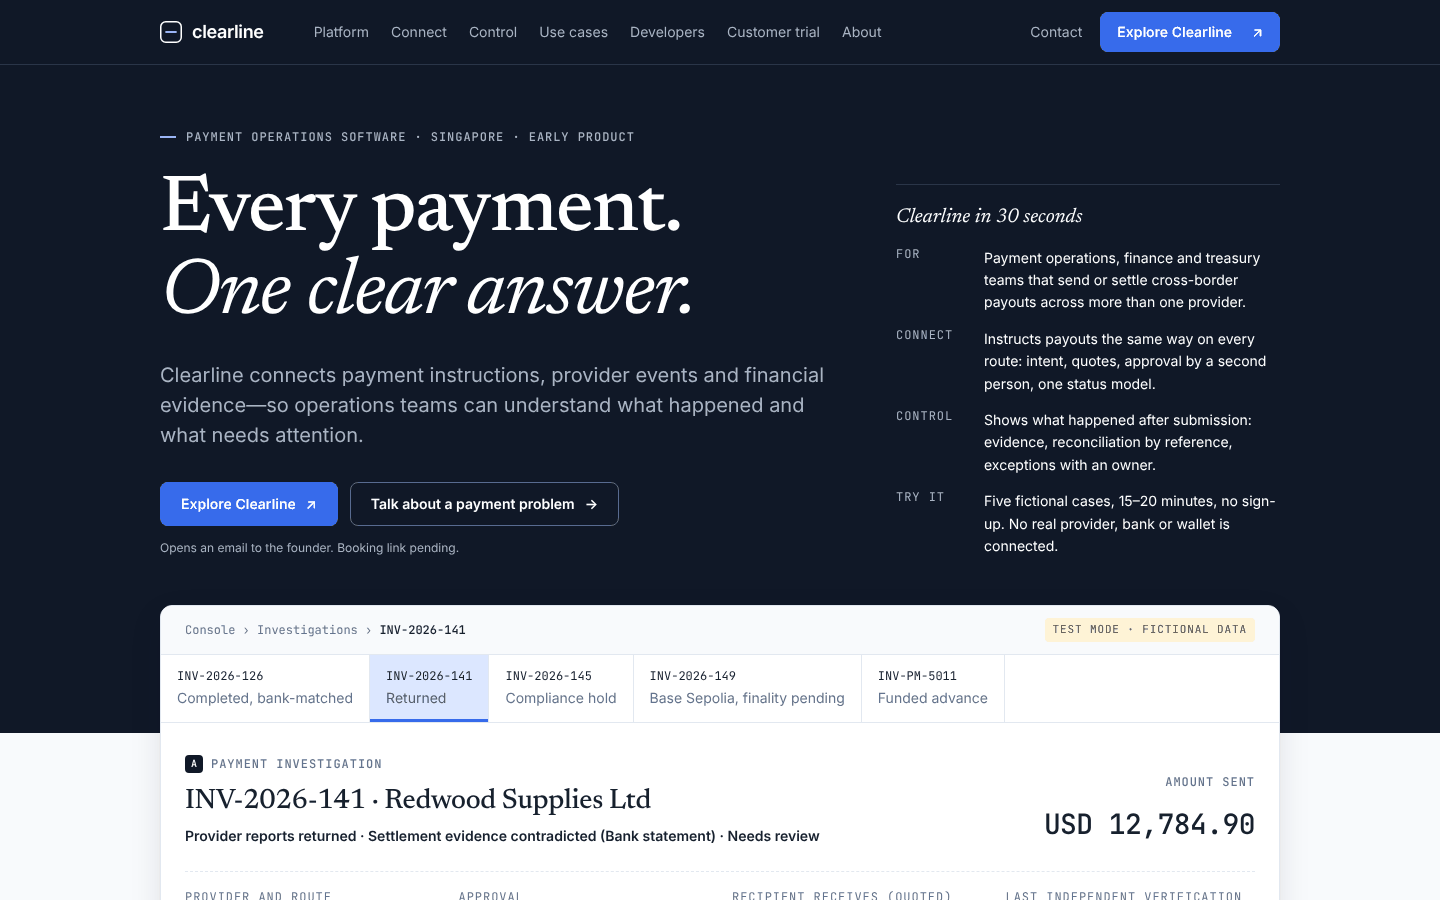
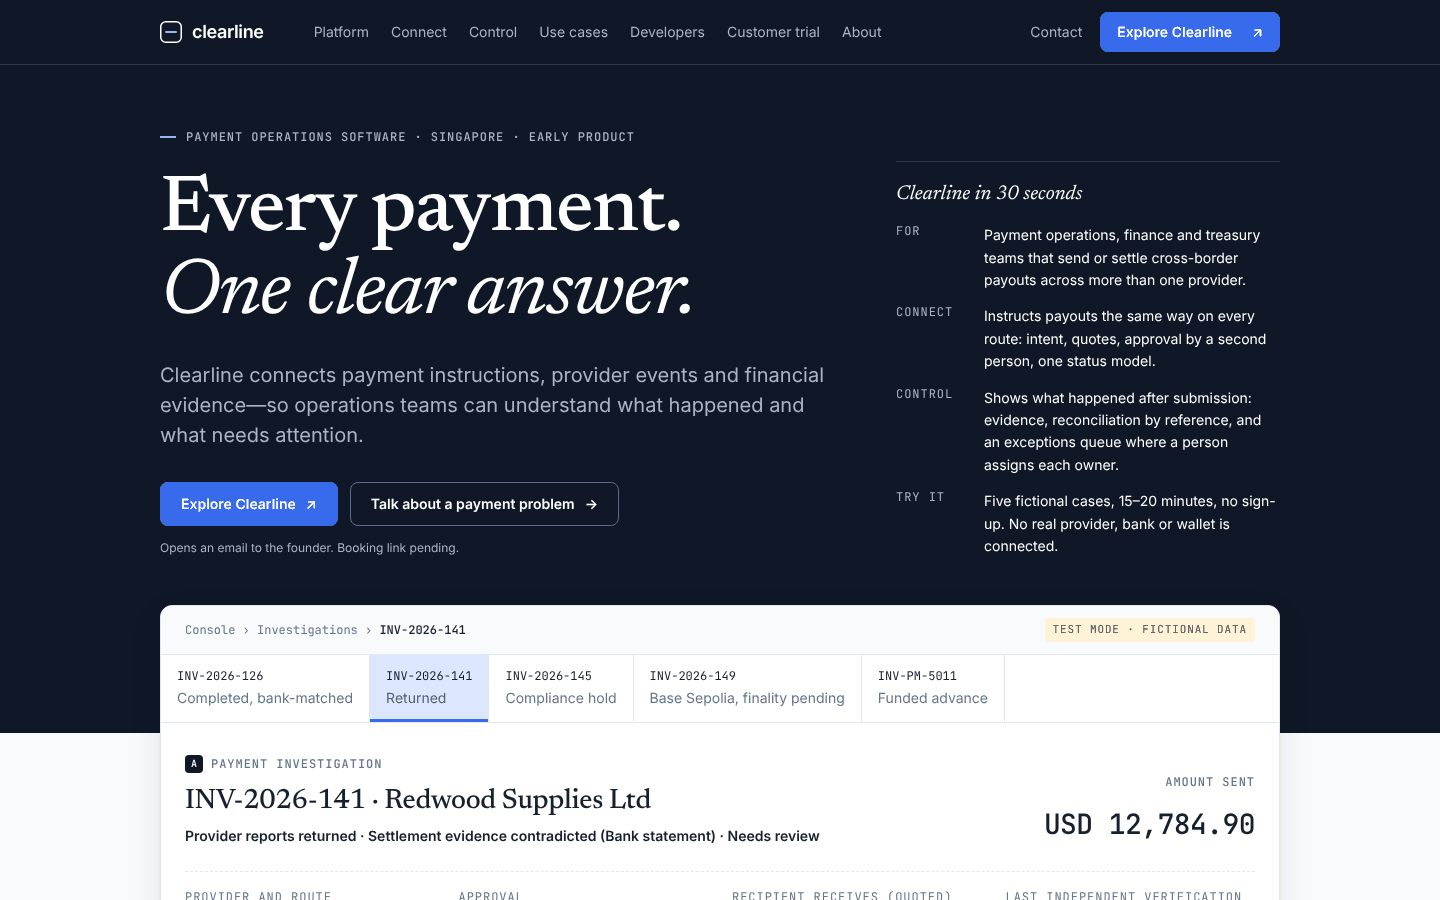
fix(marketing): exceptions are created unassigned; due dates set at creation (QA L3)
The site said unmatched lines and other disagreements become "an exception with an owner and a due date".
In the engine (exceptions.ts) an exception gets its due date at creation (an explicit date, or the creation
date + 1 day critical/high, 3 medium, 5 low) but no owner; a person assigns the owner, and resolving needs one
(OWNER_REQUIRED). Two of the four sample exceptions are unassigned.

Corrected on Home (story, 30-second panel, Connect/Control spec, flow), Control (intro and a precise note above
the exceptions table), Platform (rule 6), Developers (GET /exceptions, reconciliation exception row),
Use cases, the disclosure, the exceptions table label and DESIGN_SYSTEM.md. New test guards the claim (fails on
the previous copy). 45/45. Home first-screen screenshot refreshed.

Claude-Session: https://claude.ai/code/session_015s4Kk7vKgcSQ7csnYmEH5j

Changed region(s): [[0.625, 0.1867, 0.875, 0.5289], [0.625, 0.4356, 0.6562, 0.4667], [0.625, 0.3422, 0.6562, 0.3733]]

diff --git a/marketing/app/page.tsx b/marketing/app/page.tsx
@@ -21,7 +21,7 @@ const storyGaps = [
   ["The provider has the instruction.", "Not that any money has moved."],
   ["The provider says it is on its way.", "Not where it is, or when it will arrive."],
   ["The bank statement shows the payout left the account, allocated by its trusted reference.", "Not that the supplier was credited."],
-  ["The provider says it came back. Clearline makes reconciliation an exception at once, with an owner and a due date, and marks the earlier debit evidence as contradicted.", "Why it came back, and whether the money is really back."],
+  ["The provider says it came back. Clearline makes reconciliation an exception at once, with a due date, and marks the earlier debit evidence as contradicted.", "Why it came back, and whether the money is really back."],
   ["The return credit is on the statement, allocated by its trusted reference. The debit and the credit net to zero (RT_NET_ZERO).", "Nothing about the supplier: the beneficiary was not paid, so the exception stays open."],
 ];
 
@@ -45,7 +45,7 @@ export default function Home() {
             <dl>
               <div><dt>For</dt><dd>Payment operations, finance and treasury teams that send or settle cross-border payouts across more than one provider.</dd></div>
               <div><dt>Connect</dt><dd>Instructs payouts the same way on every route: intent, quotes, approval by a second person, one status model.</dd></div>
-              <div><dt>Control</dt><dd>Shows what happened after submission: evidence, reconciliation by reference, exceptions with an owner.</dd></div>
+              <div><dt>Control</dt><dd>Shows what happened after submission: evidence, reconciliation by reference, and an exceptions queue where a person assigns each owner.</dd></div>
               <div><dt>Try it</dt><dd>Five fictional cases, 15&ndash;20 minutes, no sign-up. No real provider, bank or wallet is connected.</dd></div>
             </dl>
           </div>
@@ -85,7 +85,7 @@ export default function Home() {
               <p className="label">Clearline&rsquo;s answer</p>
               <div className="status-line"><ExecStatus state={returned.execution} /><SettlementStatus state={returned.settlement} scope={returned.settlementScope} /><ReconStatus state={returned.reconciliation} /></div>
               <p style={{ marginTop: 16 }}><b>{returned.nextAction}</b></p>
-              <p className="caption" style={{ marginTop: 8 }}>Owner {returnedException.owner} · due <span className="num">{returnedException.dueDate}</span> · exception <span className="mono">{returnedException.category}</span>. Fictional data.</p>
+              <p className="caption" style={{ marginTop: 8 }}>Owner {returnedException.owner} (assigned by a person) · due <span className="num">{returnedException.dueDate}</span> · exception <span className="mono">{returnedException.category}</span>. Fictional data.</p>
             </div>
           </div>
         </div>
@@ -117,7 +117,7 @@ export default function Home() {
               <dl className="spec">
                 <div><dt>Investigation</dt><dd>A sourced timeline, what is still unknown, who acts and the next action.</dd></div>
                 <div><dt>Reconciliation</dt><dd>Statement lines allocated by trusted reference. Amount alone is never attribution.</dd></div>
-                <div><dt>Exceptions</dt><dd>Every disagreement gets an owner and a due date.</dd></div>
+                <div><dt>Exceptions</dt><dd>Every disagreement becomes an exception in the queue with a due date set by severity; a person assigns its owner.</dd></div>
                 <div><dt>Liquidity and holds</dt><dd>Usable balance net of what is not yours to spend. Holds owned by a named reviewer.</dd></div>
               </dl>
               <p className="duo-note"><b>Funding Desk</b> is Control&rsquo;s specialist workflow for providers that pay a supplier before their customer repays: the advance, a treasury decision by a second person, and the repayment, linked to the payout. <ExtLink href={FUNDING_DESK_URL}>Open the Funding Desk demo</ExtLink></p>
@@ -133,7 +133,7 @@ export default function Home() {
             <li><span className="idx">02</span><div><span className="flow-owner">Connect</span><b>Follow</b><p>Provider events move execution, and only execution.</p></div></li>
             <li><span className="idx">03</span><div><span className="flow-owner">Control</span><b>Evidence</b><p>Statement lines or chain observations set settlement, with their scope.</p></div></li>
             <li><span className="idx">04</span><div><span className="flow-owner">Control</span><b>Reconcile</b><p>Allocation by trusted reference; partial amounts stay partly matched.</p></div></li>
-            <li><span className="idx">05</span><div><span className="flow-owner">Control</span><b>Resolve</b><p>Whatever disagrees becomes an exception with an owner and a due date.</p></div></li>
+            <li><span className="idx">05</span><div><span className="flow-owner">Control</span><b>Resolve</b><p>Whatever disagrees becomes an exception in the queue with a due date; a person assigns the owner.</p></div></li>
           </ol>
         </div>
       </section>

diff --git a/marketing/app/developers/page.tsx b/marketing/app/developers/page.tsx
@@ -84,7 +84,7 @@ const endpoints: [string, string, string][] = [
   ["POST", "/webhooks/verify", "Sample verifier; no workspace needed"],
   ["GET", "/reconciliation", "Statement lines and allocations"],
   ["POST", "/reconciliation/statement-lines", "Ingest a bank or provider settlement line and reconcile it"],
-  ["GET", "/exceptions", "Unresolved exceptions, severity-ordered, each with an owner and a dueDate"],
+  ["GET", "/exceptions", "Unresolved exceptions, severity-ordered, each with a dueDate and an ownerId once a person assigns one"],
   ["POST", "/exceptions/{id}/{assign|notes|evidence|resolve|reopen}", "Resolution only when its conditions are met; never allocates funds"],
   ["GET · POST", "/liquidity", "Liquidity view (sample, or for a supplied workspace / instant)"],
   ["GET · POST", "/funding-advances", "Funding projection · prepare an advance funding a supplier payout"],
@@ -182,7 +182,7 @@ export default function Developers() {
                 <tr><td><ReconStatus state="pending" /></td><td>Submitted; no allocated statement line yet.</td></tr>
                 <tr><td><ReconStatus state="matched" /></td><td>A line was allocated on trusted reference, amount, currency and value-date window.</td></tr>
                 <tr><td><ReconStatus state="partially_matched" /></td><td>A bank line with the trusted reference covers only part of the amount; the remainder stays outstanding (<code className="inline">RC_PARTIAL_AMOUNT</code>, settlement <code className="inline">observed</code>). The line carries <code className="inline">amountDifference</code>.</td></tr>
-                <tr><td><ReconStatus state="exception" /></td><td>Something disagrees, or the provider reported a return. Each exception has an owner and a due date. A return stays an exception even after a statement line confirms it, until a person resolves it.</td></tr>
+                <tr><td><ReconStatus state="exception" /></td><td>Something disagrees, or the provider reported a return. Each exception gets a due date when it is created; it starts unassigned until a person assigns an owner, and it cannot be resolved without one (<code className="inline">OWNER_REQUIRED</code>). A return stays an exception even after a statement line confirms it, until a person resolves it.</td></tr>
               </tbody>
             </TableWrap>
           </div>

diff --git a/marketing/app/control/page.tsx b/marketing/app/control/page.tsx
@@ -17,7 +17,7 @@ export default function Control() {
       <PageHero eyebrow="Clearline Control" title={<>Understand what happened <em>after submission.</em></>}
         stages={["synthetic", "none"]}
         actions={<><ButtonLink href={SOFTWARE_URL} main>Open Control in test mode</ButtonLink><ButtonLink href="/use-cases" variant="secondary">See the use cases</ButtonLink></>}>
-        <p>Control is the operations side: it follows each payment after it leaves, separates what was reported from what can be shown, and turns disagreements into exceptions with an owner.</p>
+        <p>Control is the operations side: it follows each payment after it leaves, separates what was reported from what can be shown, and turns disagreements into exceptions in a queue, where a person assigns each owner.</p>
       </PageHero>
 
       <Section tone="white" eyebrow="Investigation" title="A timeline with sources, not a status badge"
@@ -35,7 +35,8 @@ export default function Control() {
           <p>A provider settlement report on a payout that is failed, cancelled, expired or returned is a contradiction, not evidence. It raises <code className="inline">contradictory_evidence</code> (<code className="inline">RC_REPORT_ON_TERMINAL_PAYOUT</code>), reconciliation becomes an exception, and settlement is left unchanged.</p>
         </div>
         <AmountDifferenceTable />
-        <h3 className="h3" style={{ margin: "40px 0 12px" }}>Exceptions, owners and due dates</h3>
+        <h3 className="h3" style={{ margin: "40px 0 12px" }}>Exceptions, due dates and owners</h3>
+        <p className="prose" style={{ marginBottom: 16 }}>The engine creates every exception with a due date: an explicit date, or the creation date plus 1 day (critical, high), 3 days (medium) or 5 days (low). It creates them unassigned. A person assigns the owner in the console, and an exception cannot be resolved without one. In the sample, two of the four open exceptions have been assigned; two are still unassigned.</p>
         <ExceptionsTable />
       </Section>
 

diff --git a/marketing/app/use-cases/page.tsx b/marketing/app/use-cases/page.tsx
@@ -45,7 +45,7 @@ export default function UseCases() {
 
       <UseCase id="investigation" n="01" tone="white" title="Payment investigation"
         situation="A USD 12,784.90 payout to Redwood Supplies Ltd (INV-2026-141) via Northline Payments comes back. Operations needs to know why, what is proven, and who fixes it. (Engine scenario s2_returned.)"
-        shows={["Each provider event with its provenance and what the engine did with it: accepted, in transit, returned. The return makes reconciliation an exception straight away, and the earlier bank debit becomes contradicted settlement evidence.", "The outgoing debit and the return credit on the bank statement, each allocated by the trusted reference. returnStatus becomes confirmed_by_statement and the return position is RT_NET_ZERO: net movement zero, beneficiary not paid. The exception stays open, due within one day.", "Who acts (the named exception owner) and the next action: verify beneficiary details with the supplier, confirm the returned funds, then create a correction intent."]}
+        shows={["Each provider event with its provenance and what the engine did with it: accepted, in transit, returned. The return makes reconciliation an exception straight away, and the earlier bank debit becomes contradicted settlement evidence.", "The outgoing debit and the return credit on the bank statement, each allocated by the trusted reference. returnStatus becomes confirmed_by_statement and the return position is RT_NET_ZERO: net movement zero, beneficiary not paid. The exception stays open, due within one day.", "Who acts (the exception owner, assigned by a person) and the next action: verify beneficiary details with the supplier, confirm the returned funds, then create a correction intent."]}
         limits="It does not correct beneficiary details or reissue the payment. A person creates the correction intent."
         stages={["synthetic"]}>
         <div className="panel">

diff --git a/marketing/lib/disclosure.ts b/marketing/lib/disclosure.ts
@@ -12,7 +12,7 @@ export const WORKING_TODAY: DisclosureItem[] = [
   { area: "Connect", text: "Create a payment intent with an idempotency key, request indicative quotes from three fictional providers (ineligible routes shown with the reason), prepare it as maker and approve it as a different person, then submit it to a sandbox adapter." },
   { area: "Connect", text: "Ingest signed sandbox provider events: duplicates ignored, late events never move a payment backwards, bad signatures rejected, contradictions raised as exceptions." },
   { area: "Control", text: "Investigate a payment with three separate statuses (execution, settlement evidence, reconciliation), a sourced evidence timeline, what is still unknown and who owns the next step." },
-  { area: "Control", text: "Reconcile fictional statement lines by trusted reference, amount, currency and value-date window; anything else becomes an exception with an owner and a due date." },
+  { area: "Control", text: "Reconcile fictional statement lines by trusted reference, amount, currency and value-date window; anything else becomes an exception in the queue with a due date set by severity, and a person assigns its owner." },
   { area: "Control", text: "Record compliance holds, which move on only when the partner reports a release and the assigned reviewer records a decision; show a liquidity view net of restricted, safeguarded and committed amounts, and synthetic Base Sepolia observations against a 12-confirmation finality threshold." },
   { area: "Control", text: "Filter and search Payments, Investigations and Exceptions, with the filters kept in the URL, and assign owners to exceptions and cases through the engine." },
   { area: "Case report", text: "From a payment's investigation page, view the engine's synthetic case report in place, marked fictional, and download it as JSON or CSV." },

diff --git a/marketing/app/platform/page.tsx b/marketing/app/platform/page.tsx
@@ -18,7 +18,7 @@ const rules: [string, ReactNode][] = [
   ["Evidence carries its scope.", <>A matched bank-statement debit is <code>verified</code> with scope <code>bank_statement</code>: the payout left the account. The beneficiary&rsquo;s credit can still be unknown, and the record says so.</>],
   ["Observation is not finality.", <>A synthetic testnet transfer counts as verified only past the finality threshold (12 confirmations on the Base Sepolia route), and never proves a supplier&rsquo;s bank credit.</>],
   ["Short is never settled.", <>A bank line with a trusted reference but only part of the amount is <code>partially_matched</code>; the remainder stays outstanding (<code>RC_PARTIAL_AMOUNT</code>). A provider report below the payout needs review (<code>RC_UNDER_AMOUNT_REPORT</code>), with expected, reported and difference stated.</>],
-  ["A return is an exception until a person resolves it.", <>A statement line can confirm the return (<code>confirmed_by_statement</code>). The exception stays open, with its owner and due date, because the supplier is still unpaid.</>],
+  ["A return is an exception until a person resolves it.", <>A statement line can confirm the return (<code>confirmed_by_statement</code>). The exception stays open, with its due date and the owner a person assigned, because the supplier is still unpaid.</>],
 ];
 
 export default function Platform() {

diff --git a/marketing/components/Tables.tsx b/marketing/components/Tables.tsx
@@ -103,7 +103,7 @@ export function FundingTable() {
 export function ExceptionsTable() {
   const sev: Record<string, string> = { critical: "danger", high: "danger", medium: "warning", low: "neutral" };
   return (
-    <TableWrap label="Sample exceptions with owners and due dates" caption={"The engine's unresolved exceptions, severity-ordered. " + EXCEPTION_DUE_POLICY}>
+    <TableWrap label="Sample exceptions with due dates and assigned owners" caption={"The engine's unresolved exceptions, severity-ordered. " + EXCEPTION_DUE_POLICY}>
       <thead><tr><th scope="col">Category</th><th scope="col">Item</th><th scope="col">Severity</th><th scope="col">Status</th><th scope="col">Owner</th><th scope="col">Due</th><th scope="col">Required action</th></tr></thead>
       <tbody>{SAMPLE_EXCEPTIONS.map(e => (
         <tr key={e.category}>

diff --git a/docs/design/DESIGN_SYSTEM.md b/docs/design/DESIGN_SYSTEM.md
@@ -209,7 +209,7 @@ The exact API value is always shown as secondary detail (mono, slate, after the 
 - Funding: `supplier_paid` is labelled "Supplier paid (provider-reported)". Always show `supplierPaidBasis` (`none` · `provider_reported` · `verified_settlement`); only `verified_settlement` may use the success tone.
 - A provider settlement report gives at most `observed` and never reconciles on its own. An on-chain transfer is `verified` only past the finality threshold and never proves a bank credit.
 - A provider-reported return sets reconciliation `exception` immediately. Show `returnStatus` (`provider_reported` → `confirmed_by_statement`) beside it; a confirmed return is still an exception until a person resolves it.
-- Exceptions always show their owner and `dueDate` (ISO date, mono); overdue items use the danger tone.
+- Exceptions always show their `dueDate` (ISO date, mono; set by the engine at creation) and their owner, or "Unassigned": the engine creates exceptions unassigned and a person assigns the owner. Overdue items use the danger tone.
 
 Implementation: `marketing/components/Status.tsx` (`.st-exec`, `.st-settlement` + `.stl-*`, `.st-recon`, human-label maps exported for the console).
 
@@ -261,6 +261,8 @@ The website's large product demonstration is the console's payment investigation
 One source: `marketing/lib/disclosure.ts`, rendered by `<Disclosure />` on Home, Platform and Trial. Two ruled columns (works today in the sandbox · not built yet) with a mono area label per row, and an ice "Out of scope" note. An item may sit under "works today" only if the released engine and console can demonstrate it. Never a card grid.
 
 ## Change log
+
+- 2026-11-14: QA L3. Copy no longer says exceptions are created with an owner: the engine sets the due date at creation and creates exceptions unassigned; a person assigns the owner (two of the four sample exceptions are unassigned). Guarded by a test.
 
 - 2026-11-14: v2.2.2. Product view regenerated from rc3/clearline-app @ 7e521f5 (engine data unchanged); statement-line sources use the console's attribution wording ("Bank statement · BANK-SGD-OPS (fictional)"). The disclosure (§16) and Customer trial add the console features shipped at 7e521f5: synthetic case report, per-case reset, filters and owner assignment, simulated roles, Funding Desk from Treasury & Funding; all marked console-only.
 
